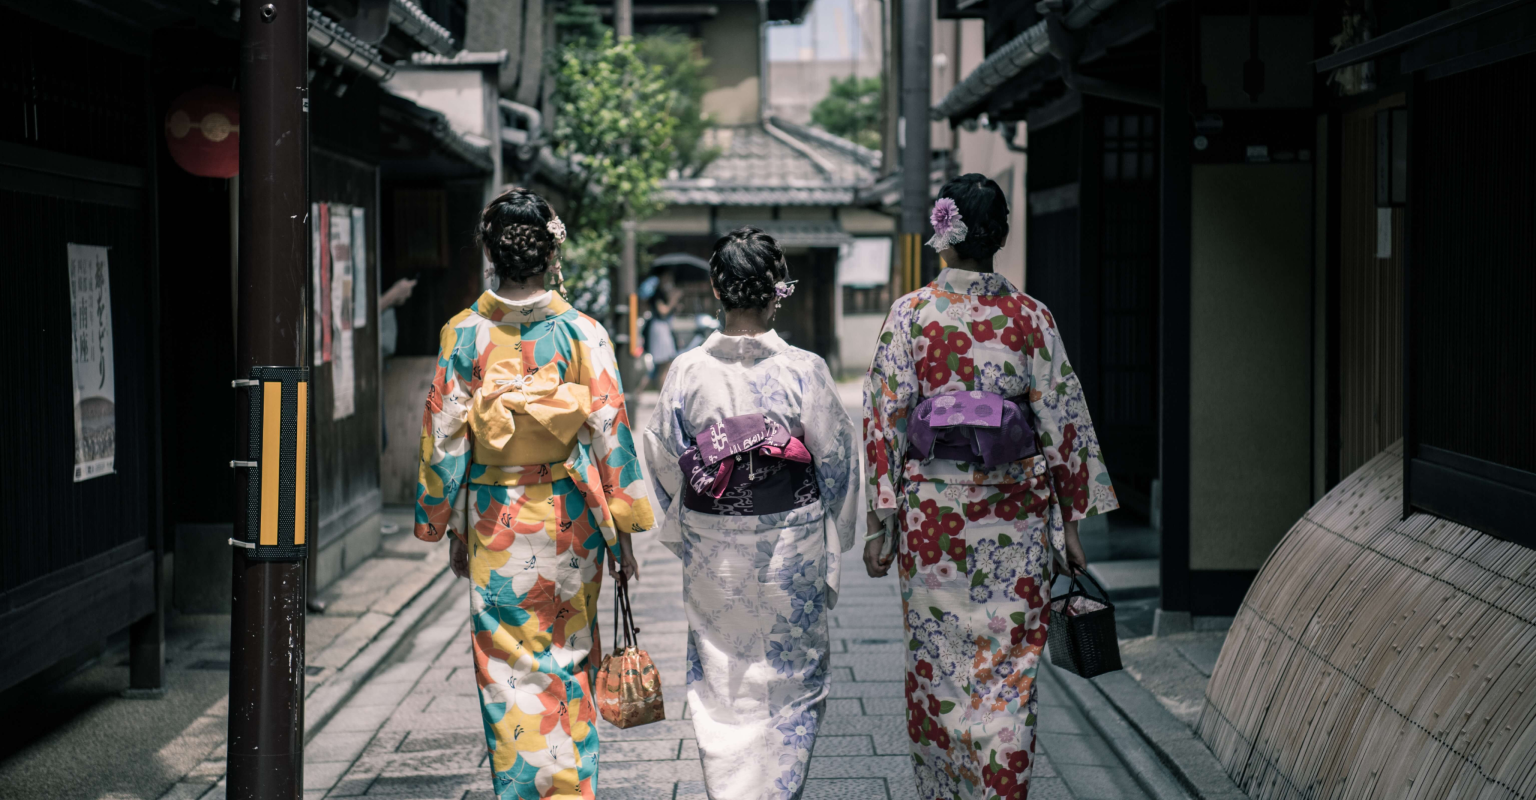
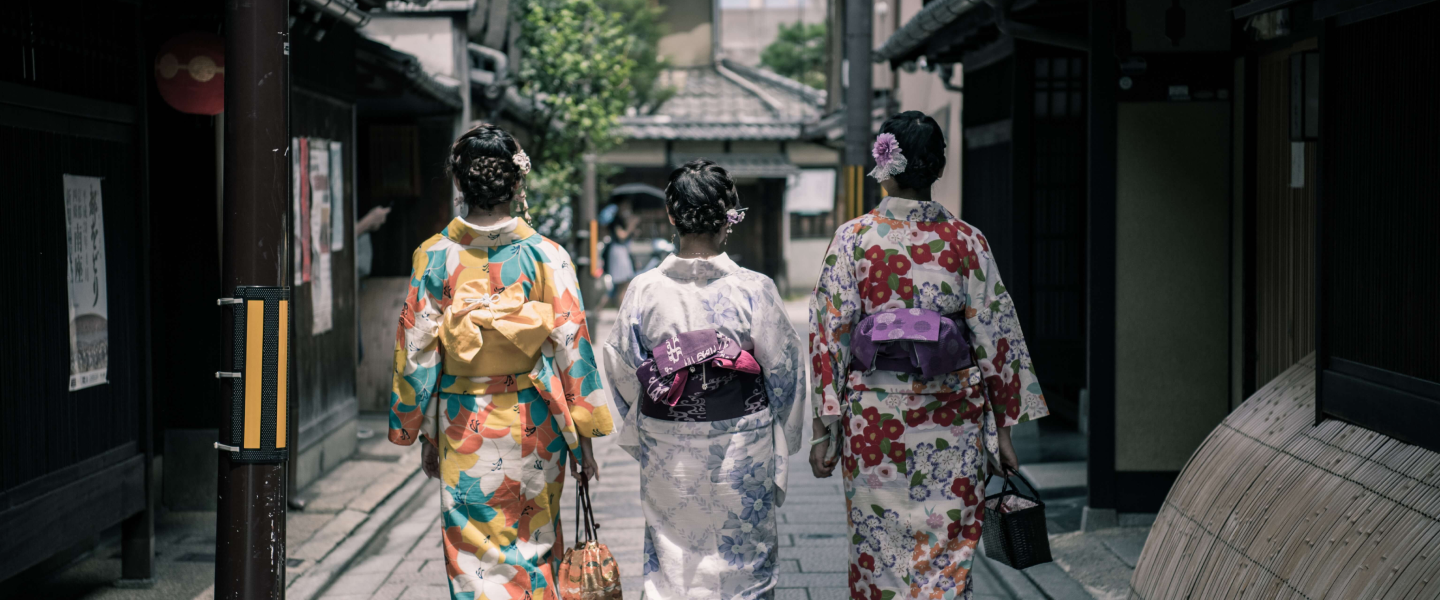
Inclui imagem do footer da pagina de pacotes de viagem

diff --git a/css/hero.css b/css/hero.css
@@ -65,6 +65,12 @@
   line-height: 32px;
 }
 
+.travel-packages.bottom-hero .hero-img {
+  background: url(../img/travel-packages/japan-bg-bottom-hero-mobile.png)
+    no-repeat;
+  background-size: cover;
+}
+
 @media screen and (min-width: 768px) {
   .hero .hero-img {
     height: 620px;
@@ -99,7 +105,7 @@
     height: 620px;
   }
 
-  .travel-packages .bottom-hero .hero-img {
+  .travel-packages.bottom-hero .hero-img {
     height: 400px;
     background: url(../img/travel-packages/japan-bg-bottom-hero-tablet.png)
       no-repeat;
@@ -135,6 +141,13 @@
 
   .travel-packages .hero-img {
     background: url(../img/travel-packages/japan-bg-hero-desktop.png) no-repeat;
+    background-size: cover;
+  }
+
+  .travel-packages.bottom-hero .hero-img {
+    height: 600px;
+    background: url(../img/travel-packages/japan-bg-bottom-hero-desktop.png)
+      no-repeat;
     background-size: cover;
   }
 }

diff --git a/pacotes-de-viagens.html b/pacotes-de-viagens.html
@@ -222,5 +222,8 @@
         </article>
       </div>
     </section>
+    <section class="travel-packages bottom-hero">
+      <div class="hero-img"></div>
+    </section>
   </body>
 </html>
